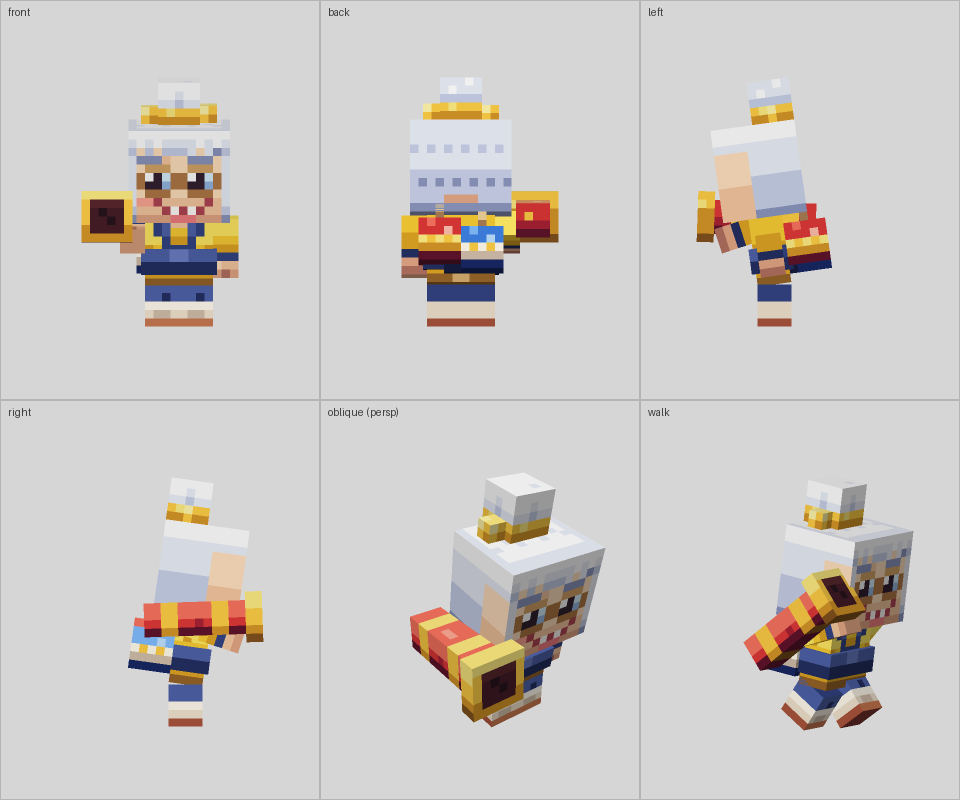
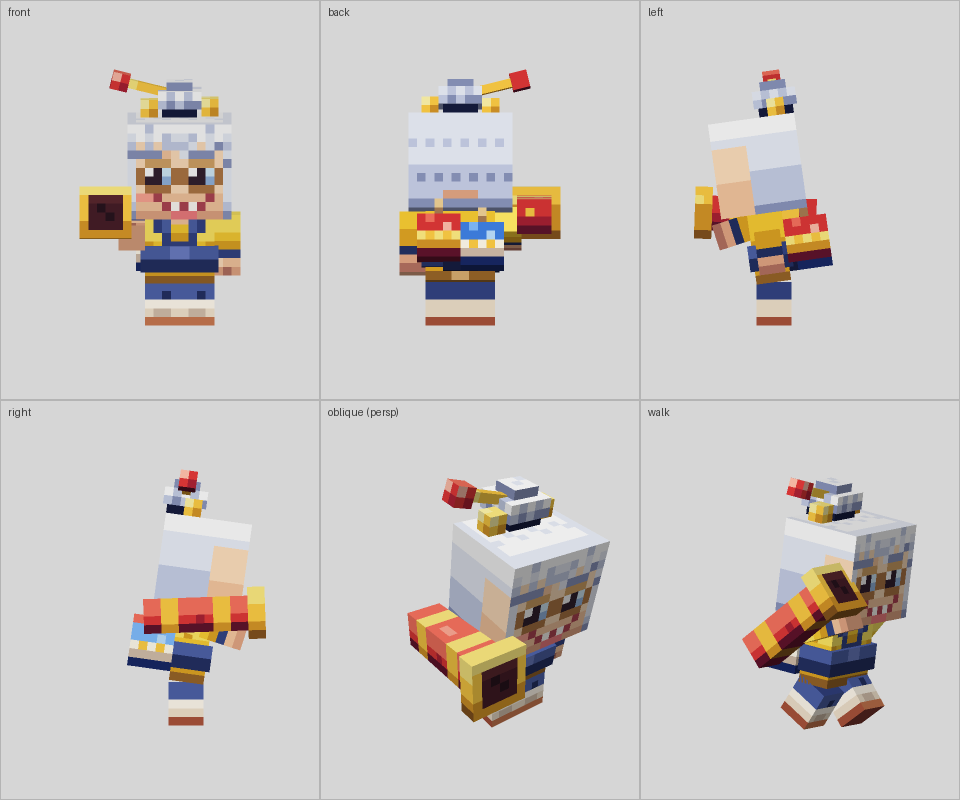
見た目修正: ラスティの表情・ミモザのお団子・タコまるの頭
Claude-Session: https://claude.ai/code/session_01WAcE1vYgmj8BWXY7XQB8j7

diff --git a/agent/preview/C/takomaru/gen.py b/agent/preview/C/takomaru/gen.py
@@ -118,6 +118,141 @@ bone("tentacle_r", "body", (2, 13, 3), (0, 0, 0))
 bone("tentacle_l", "body", (-2, 13, 3), (0, 0, 0))
 
 # ---------- 頭 (16x14x12)
+def ring(f, cx, cy):
+    for dx, dy in ((0,-1),(1,-1),(-1,0),(2,0),(-1,1),(2,1),(0,2),(1,2)): f.px(cx+dx, cy+dy, S_L)
+    f.px(cx, cy, S_M); f.px(cx+1, cy, S_M); f.px(cx, cy+1, S_M); f.px(cx+1, cy+1, S_D)
+def head_p(F, w, h, d):
+    f = F['F']
+    for (x0, sgn) in ((1, 1), (14, -1)):
+        for dx in range(0, 4): f.px(x0+sgn*dx, 6, INK)
+        for dx in range(2, 6): f.px(x0+sgn*dx, 7, INK)
+        f.px(x0, 7, R_OL)
+    for ex, px_, hl in ((2, 3, 3), (10, 10, 11)):
+        f.rect(ex, 8, 4, 4, WHITE)
+        f.rect(ex, 11, 4, 1, H('e8d6cc'))
+        f.rect(px_, 9, 2, 3, INK)
+        f.px(hl, 9, WHITE)
+    for cx in (1, 13): f.rect(cx, 12, 2, 1, H('f4806e'))
+    f.rect(6, 13, 4, 1, INK)
+    f.px(5, 12, R_OL); f.px(10, 12, R_OL)
+    f.rect(2, 0, 4, 1, R_HI); f.px(1, 1, R_HI)
+    sucker(F['L'], 3, 8); sucker(F['R'], 8, 8)
+    ring(F['B'], 3, 1); ring(F['B'], 11, 2); sucker(F['B'], 7, 8)
+    ring(F['T'], 2, 3); ring(F['T'], 11, 6); ring(F['T'], 12, 2)
+    F['T'].rect(5, 1, 3, 1, R_HI); F['T'].px(4, 2, R_HI)
+add("head", (-8, 16, -6), (16, 14, 12), head_p)
+
+def d1(F, w, h, d):
+    ring(F['T'], 2, 2); ring(F['T'], 9, 5); F['T'].rect(5, 1, 3, 1, R_HI); F['F'].rect(2, 0, 3, 1, R_HI)
+add("head", (-7, 30, -5), (14, 1, 10), d1)
+def d2(F, w, h, d):
+    ring(F['T'], 7, 3); F['T'].rect(2, 1, 3, 1, R_HI); F['F'].rect(1, 0, 2, 1, R_HI)
+add("head", (-6, 31, -4), (12, 1, 8), d2)
+def d3(F, w, h, d):
+    F['T'].rect(0, 0, w, d, R_L); F['T'].rect(1, 1, 2, 1, WHITE); F['T'].px(4, 2, R_HI)
+    F['F'].px(1, 0, R_HI)
+add("head", (-4, 32, -2), (8, 1, 4), d3)
+
+# 鉢巻 藍
+B_L=H('5c78c8'); B_M=H('3f56a6'); B_D=H('2c3a7c'); B_OL=H('1e2756')
+INK=H('3a1224'); WHITE=H('fffaf0'); GOLD=H('f2c14e')
+
+cubes = []  # (bone, name, from, size, painter)
+cur = [0, 0, 0]  # shelf packer
+def alloc(w, h):
+    tw, th = 2*h + 0, 0
+    raise
+
+shelf = {"x":0,"y":0,"rowh":0}
+def pack(w, h, d):
+    W_, H_ = 2*d+2*w, d+h
+    if shelf["x"] + W_ > S:
+        shelf["x"] = 0; shelf["y"] += shelf["rowh"]; shelf["rowh"] = 0
+    u, v = shelf["x"], shelf["y"]
+    shelf["x"] += W_; shelf["rowh"] = max(shelf["rowh"], H_)
+    assert shelf["y"] + H_ <= S, "texture overflow"
+    return u, v
+
+bones = {}
+def bone(name, parent, pivot, rot=(0,0,0)):
+    bones[name] = {"name": name, "parent": parent, "pivot": list(pivot), "rotation": list(rot), "cubes": []}
+
+class Face:
+    def __init__(s, x0, y0, w, h): s.x0, s.y0, s.w, s.h = x0, y0, w, h
+    def px(s, x, y, c):
+        if 0 <= x < s.w and 0 <= y < s.h: P[s.x0+x, s.y0+y] = c
+    def get(s, x, y): return P[s.x0+x, s.y0+y]
+    def rect(s, x, y, w, h, c):
+        for j in range(h):
+            for i in range(w): s.px(x+i, y+j, c)
+
+def add(bn, frm, size, painter=None, pal='red', inflate=0):
+    w, h, d = size
+    u, v = pack(w, h, d)
+    bones[bn]["cubes"].append({"from": list(frm), "size": list(size), "uv": [u, v], "inflate": inflate})
+    faces = {
+        'R': Face(u, v+d, d, h), 'F': Face(u+d, v+d, w, h), 'L': Face(u+d+w, v+d, d, h), 'B': Face(u+2*d+w, v+d, w, h),
+        'T': Face(u+d, v, w, d), 'D': Face(u+d+w, v, w, d)}
+    base(faces, pal)
+    if painter: painter(faces, w, h, d)
+    return faces
+
+PALS = {
+ 'red': (R_L, R_M, R_D, R_OL, R_HI),
+ 'white': (W_L, W_M, W_D, W_OL, W_L),
+ 'blue': (B_L, B_M, B_D, B_OL, B_L),
+}
+def base(faces, pal):
+    L, M, D, OL, HI = PALS[pal]
+    for k, f in faces.items():
+        for y in range(f.h):
+            t = y / max(1, f.h-1)
+            if k == 'T': c = L
+            elif k == 'D': c = D
+            else:
+                if f.h <= 3: c = M
+                elif t < 0.34: c = L
+                elif t < 0.72: c = M
+                else: c = D
+                # ディザ境界
+                if f.h > 3:
+                    for edge, lo, hi in ((0.34, L, M), (0.72, M, D)):
+                        if abs(t-edge) < 0.5/f.h+0.04: pass
+            for x in range(f.w):
+                cc = c
+                if k not in 'TD' and f.h > 5:
+                    # 境界ディザ
+                    if abs(t-0.34) < 0.12 and (x+y) % 2 == 0: cc = M if c == L else L
+                    if abs(t-0.72) < 0.12 and (x+y) % 2 == 0: cc = D if c == M else M
+                f.px(x, y, cc)
+        # 縁取り(隣色を暗く)
+        for y in range(f.h):
+            for x in range(f.w):
+                if x == f.w-1 or y == f.h-1 or (k in 'RL' and x == 0):
+                    if k in 'TD': continue
+                    f.px(x, y, OL if y == f.h-1 else D)
+        # 点描の揺らぎ
+        if pal == 'red' and f.w*f.h > 20:
+            for _ in range(f.w*f.h//40):
+                x, y = rnd.randrange(f.w), rnd.randrange(f.h)
+                f.px(x, y, HI if k == 'T' or y < f.h*0.5 else R_D)
+
+def sucker(f, cx, cy, big=False):
+    f.px(cx, cy, S_L); f.px(cx+1, cy, S_L); f.px(cx, cy+1, S_M); f.px(cx+1, cy+1, S_D if big else S_M)
+    if big: f.px(cx-1, cy, S_M); f.px(cx+2, cy+1, S_D) if False else None
+
+# ------------------------------------------------------------ ボーン
+bone("body", None, (0, 8, 0))
+bone("head", None, (0, 16, 0))
+bone("right_arm", None, (8, 15, 0))
+bone("left_arm", None, (-8, 15, 0))
+bone("right_leg", None, (3, 6, 0))
+bone("left_leg", None, (-3, 6, 0))
+bone("weapon", "right_arm", (9, 6, -1))
+bone("tentacle_r", "body", (2, 13, 3), (0, 0, 0))
+bone("tentacle_l", "body", (-2, 13, 3), (0, 0, 0))
+
+# ---------- 頭 (16x14x12)
 def head_p(F, w, h, d):
     f = F['F']
     for (x0, sgn) in ((1, 1), (14, -1)):
@@ -435,8 +570,8 @@ def band_p(F, w, h, d):
             f.px(x, f.h-1, B_OL if x % 2 == 0 else B_D)
             if f.h > 1: f.px(x, 0, B_L)
     for k in 'TD':
-        F[k].rect(0, 0, F[k].w, F[k].h, B_M)
-add("head", (-8, 27, -6), (16, 2, 12), band_p, inflate=0.5)
+        F[k].rect(0, 0, F[k].w, F[k].h, (0,0,0,0))
+add("head", (-8, 25, -6), (16, 3, 12), band_p, inflate=0.5)
 
 # 結び目と垂れ
 def knot_p(F, w, h, d):
@@ -444,15 +579,15 @@ def knot_p(F, w, h, d):
         f.rect(0, 0, f.w, f.h, B_M)
         f.rect(0, 0, f.w, 1, B_L); f.rect(0, f.h-1, f.w, 1, B_D)
         f.px(0, f.h//2, B_D)
-add("head", (8, 26, -1), (3, 3, 3), knot_p)
+add("head", (8, 25, 2), (3, 3, 3), knot_p)
 def tail_p(F, w, h, d):
     for k, f in F.items():
         for y in range(f.h):
             for x in range(f.w):
                 f.px(x, y, B_M if (x+y) % 3 else B_L)
         f.rect(0, f.h-1, f.w, 1, B_OL)
-add("head", (9, 21, 0), (2, 5, 2), tail_p)
-add("head", (9, 22, -3), (2, 4, 2), tail_p)
+add("head", (9, 20, 3), (2, 5, 2), tail_p)
+add("head", (9, 21, 5), (2, 4, 2), tail_p)
 
 # ---------- 胴 (10x10x6)
 def body_p(F, w, h, d):

diff --git a/agent/preview/C/mimosa/gen.py b/agent/preview/C/mimosa/gen.py
@@ -30,7 +30,15 @@ bones = [
         cube((6.5, 7.2, -1), (4, 4, 12), (32, 48)),      # 筒
         cube((5.5, 6.2, -3), (6, 6, 2), (0, 56)),       # 先端の広がり
     ], (-70, 0, 0)),
-    bone("bun", "head", (0, 24, 2), [cube((-2.5, 24, 0), (5, 5, 5), (44, 0))]),
+    bone("bun", "head", (0, 24, 3), [
+        cube((-2, 24, 1), (4, 1, 4), (44, 0)),
+        cube((-2.5, 25, 0.5), (5, 2, 5), (44, 5)),
+        cube((-1.5, 27, 1.5), (3, 1, 3), (44, 41)),
+    ]),
+    bone("kanzashi", "head", (1, 26.5, 3), [
+        cube((1, 26, 2.5), (5, 1, 1), (48, 22)),
+        cube((6, 25.5, 2), (2, 2, 2), (48, 25)),
+    ], (0, 0, 14)),
     bone("mimosa_a", "head", (3, 24, 2), [cube((2.5, 24, 1), (2, 2, 2), (56, 34))]),
     bone("mimosa_b", "head", (-3, 24, 2), [cube((-4.5, 24, 2), (2, 2, 2), (56, 34))]),
     bone("shell_a", "body", (-2.5, 9.5, 4.5), [cube((-5, 7, 2), (5, 5, 5), (0, 46))]),
@@ -120,6 +128,9 @@ put(F, 0, 2, HAIR[2]); put(F, 11, 2, HAIR[2])
 for x in (1, 3, 8, 10): put(F, x, 2, SK[0])
 put(F, 5, 2, HAIR[2]); put(F, 6, 2, HAIR[2])
 for x in (5, 6): put(F, x, 3, HAIR[2]) if False else None
+for (x, y) in ((4, 3), (7, 3), (6, 3)): put(F, x, y, HAIR[1])
+for x in (2, 9): put(F, x, 0, HAIR[2])
+put(F, 4, 1, HAIR[2]); put(F, 7, 1, HAIR[2]); put(F, 0, 3, HAIR[3]); put(F, 11, 4, HAIR[3])
 # 眉(右が高い=いたずら)
 hline(F, 3, 1, 3, HAIR[3]); hline(F, 3, 7, 9, HAIR[3]); put(F, 10, 2, HAIR[3]); put(F, 4, 3, SK[1])
 # 丸めがね(金のつる): 外枠5x4 を左右に
@@ -180,16 +191,28 @@ hline(B, 10, 0, 11, HAIR[3])
 for x in (4, 5, 6, 7): put(B, x, 9, SK[2])   # うなじ
 
 # ---- bun (44,0) 4x4x4 : 白髪のお団子
-RB = rects(44, 0, 5, 5, 5)
-for k, r in RB.items():
-    banded(r, HAIR, k, (0.4, 0.75))
+# お団子: 3段の丸い形 + 毛束の線 + かんざし
+R1 = rects(44, 0, 4, 1, 4)
+for k, r in R1.items(): banded(r, NAV, k, (0.5, 0.8))     # 髪紐
+R2 = rects(44, 5, 5, 2, 5)
+for k, r in R2.items():
+    banded(r, HAIR, k, (0.5, 0.85))
     if k in ("front", "back", "left", "right"):
-        put(r, 1, 1, (255, 255, 255)); put(r, 2, 2, HAIR[2])
-for k in ("front", "back", "left", "right"):
-    r = RB[k]
-    hline(r, 4, 0, W(r) - 1, GOLD[2]); hline(r, 3, 0, W(r) - 1, GOLD[1])
-    put(r, 1, 3, GOLD[0]); put(r, 3, 0, HAIR[0]); put(r, 2, 1, HAIR[1])
-put(RB["top"], 1, 1, (255, 255, 255)); put(RB["top"], 2, 1, (255, 255, 255)); put(RB["top"], 3, 3, HAIR[1])
+        put(r, 1, 0, HAIR[2]); put(r, 3, 0, HAIR[2]); put(r, 2, 1, HAIR[2]); put(r, 0, 1, HAIR[2]); put(r, 4, 1, HAIR[3])
+    if k == "top":
+        for (x, y) in ((1, 1), (2, 3), (3, 2), (0, 3), (4, 1)): put(r, x, y, HAIR[2])
+R3 = rects(44, 41, 3, 1, 3)
+for k, r in R3.items():
+    banded(r, HAIR, k, (0.5, 0.85))
+fillr(R3["top"], (255, 255, 255)); put(R3["top"], 1, 1, HAIR[1]); put(R3["top"], 2, 0, HAIR[1])
+# かんざし
+RK = rects(48, 22, 5, 1, 1)
+for k, r in RK.items(): fillr(r, GOLD[1] if k != "bottom" else GOLD[2])
+put(RK["front"], 0, 0, GOLD[0]); put(RK["top"], 0, 0, GOLD[0])
+RKb = rects(48, 25, 2, 2, 2)
+for k, r in RKb.items(): fillr(r, RED[1] if k != "top" else RED[0]); 
+for k in ("front", "right"): put(RKb[k], 0, 0, (255, 190, 170)); put(RKb[k], 1, 1, RED[2])
+fillr(RKb["bottom"], RED[3])
 # ---- mimosa (44,8) 2x2x2 : ミモザの黄色い花
 RM = rects(56, 34, 2, 2, 2)
 for k, r in RM.items():

diff --git a/agent/preview/C/rusty/gen.py b/agent/preview/C/rusty/gen.py
@@ -86,27 +86,22 @@ def head(k,i,j,w,h):
         if i in(3,9): return H1
         return S1
     skin=S1 if j<8 else (S2 if j<10 else S3)
-    # brows
-    if j==3 and i in(2,3,4): return H3 if i<4 else H2
-    if j==3 and i in(8,9,10): return H3 if i>8 else H2
-    if j==2 and i in(4,8): return H3
-    for c0 in (2,8):
-        if c0<=i<=c0+2 and 5<=j<=8:
+    # brows: cheerful, inner ends raised
+    if (i,j) in((1,4),(2,4),(3,3),(4,3),(8,3),(9,3),(10,4),(11,4)): return H3 if (i,j) not in((1,4),(11,4)) else H2
+    for c0 in (1,8):
+        if c0<=i<=c0+3 and 5<=j<=8:
             ci=i-c0;rj=j-5
-            if rj==0: return B3
-            if c0==8: ci=2-ci        # mirror: white outside, iris toward centre
-            if rj==1: return (150,82,44) if ci==2 else (255,255,255)
-            if rj==2: return (255,255,255) if ci==0 else (46,26,30)
-            return (206,118,60) if ci else (150,84,52)
-    # eye shine already; blush & freckles
-    if j==9 and (i in(1,2,3) or i in(9,10,11)):
+            if rj==0: return B3 if ci in(1,2) else skin
+            if rj==1: return B3 if ci in(0,3) else ((255,255,255) if ci==1 else (150,82,44))
+            if rj==2: return (236,236,246) if ci in(0,3) else (46,26,30)
+            return (206,118,60) if ci in(1,2) else skin
+    if j==9 and (i in(0,1,2,3) or i in(9,10,11,12)):
         return (240,150,128) if i in(2,10) else ((196,110,84) if (i+j)%2 else S2)
-    if j==7 and i in(0,12): return (204,124,92)
-    if j==8 and i in(1,3,9,11): return (204,124,92)
-    if j==10 and i in (5,6,7):  # grin
-        return (255,250,240) if i==6 else (142,48,50)
-    if j==9 and i in (4,8): return (170,60,56)
-    if j==9 and i in (5,6,7): return (142,48,50) if i!=6 else (255,250,240)
+    if j==8 and i in(0,12): return (204,124,92)
+    if j==9 and i in (4,8): return (130,40,44)
+    if j==9 and i in (5,6,7): return (255,252,244) if i!=6 else (255,255,255)
+    if j==10 and i in (4,8): return S3
+    if j==10 and i in (5,6,7): return (230,110,110) if i==6 else (150,50,54)
     if j==8 and i==6: return S3   # nose
     if i==0 or i==12: return dk(skin,.9)
     return skin
